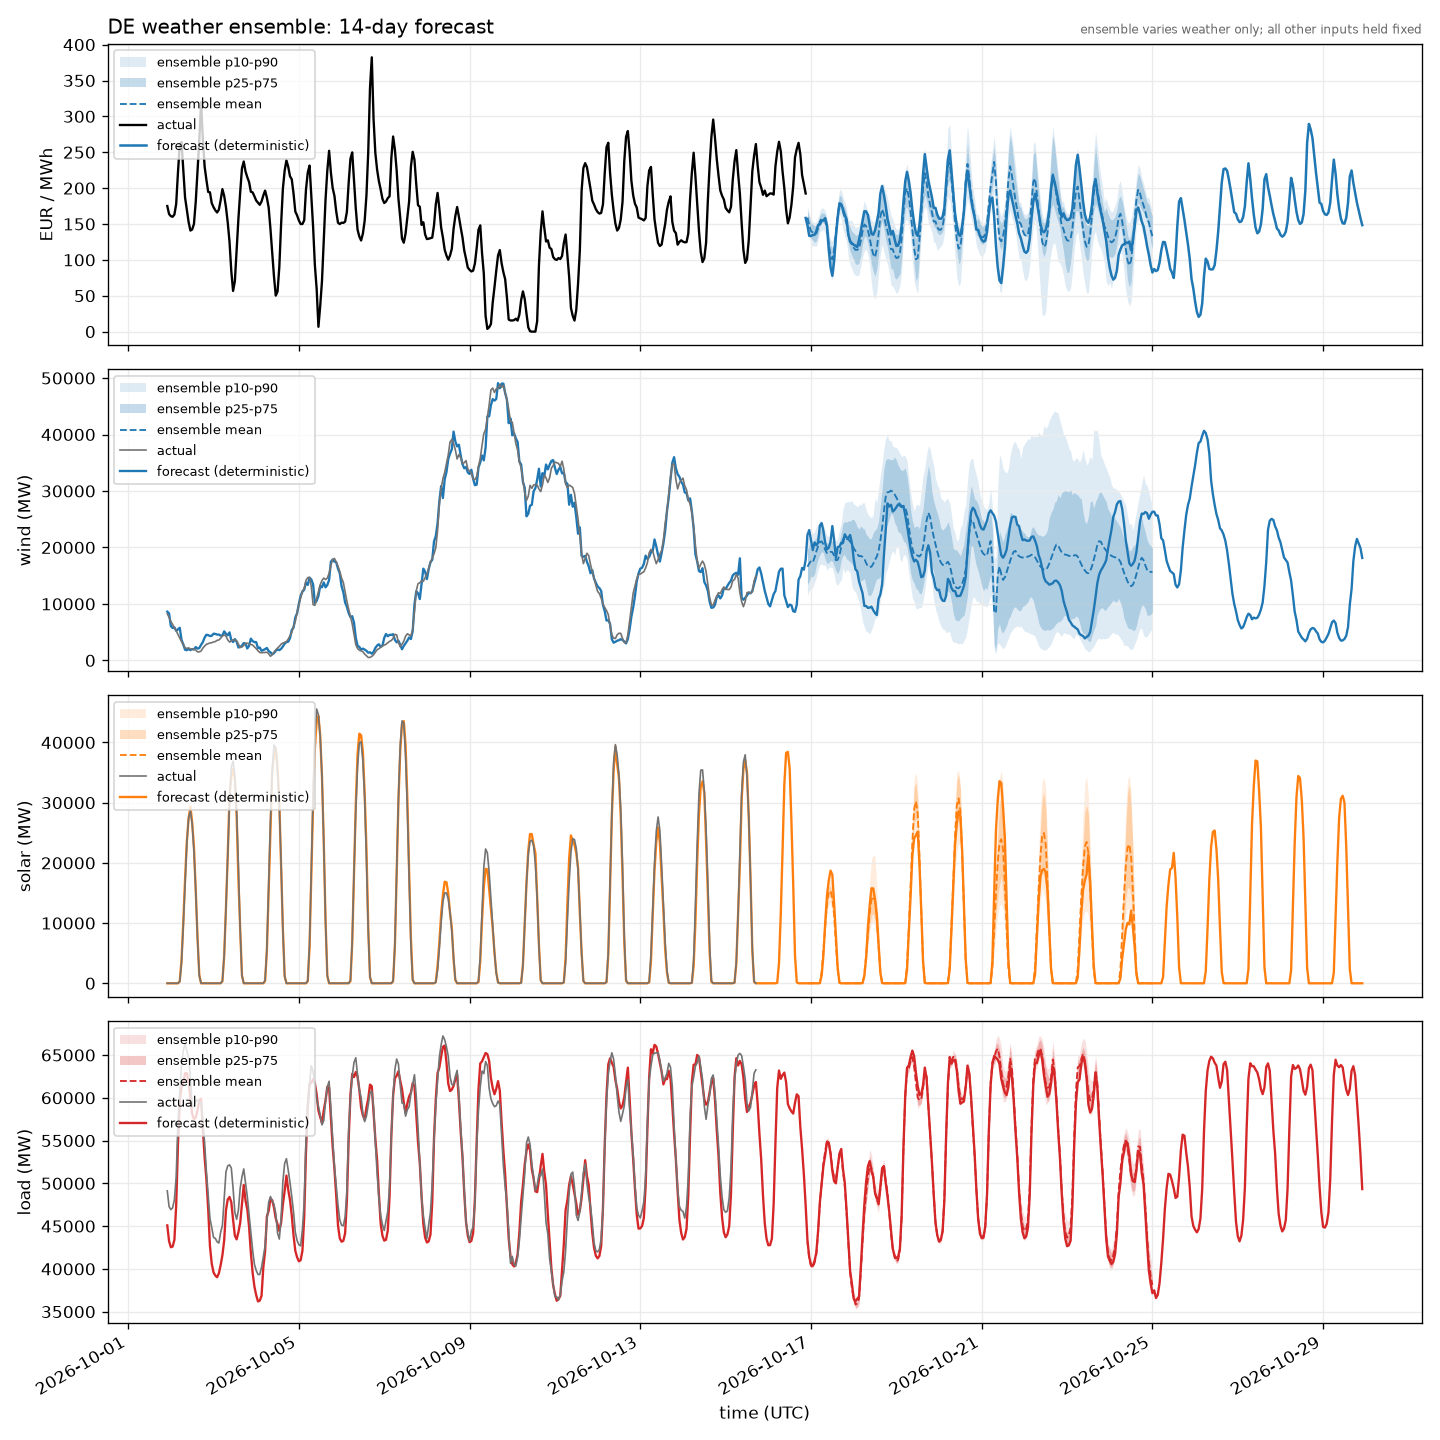
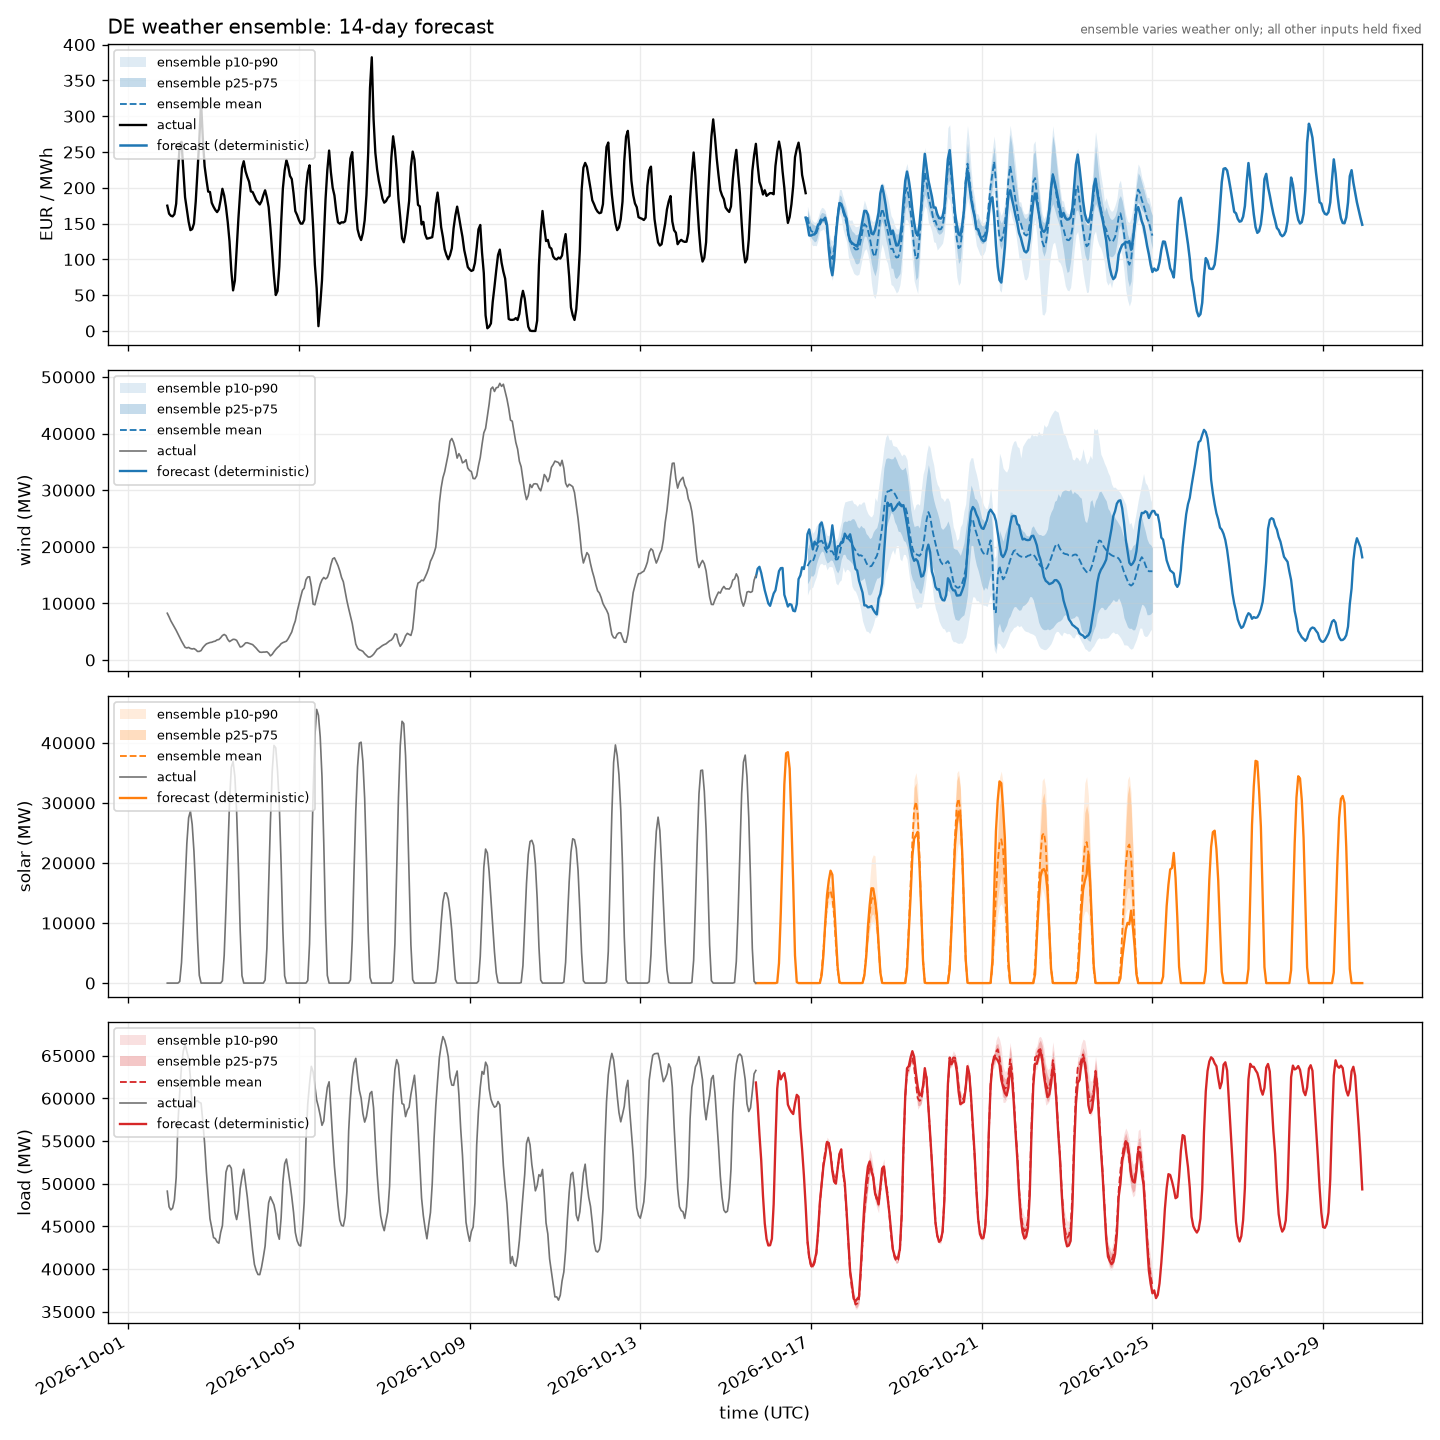
fix(plots): show fundamental forecasts after measured history

diff --git a/tests/test_plots.py b/tests/test_plots.py
@@ -1,0 +1,51 @@
+"""Forecast charts must hand measured history over to each series' own forward predictions."""
+
+from unittest.mock import Mock
+
+import numpy as np
+import pandas as pd
+import pytest
+
+from eex_forecast.plots import _FUNDAMENTAL_PANELS, _draw_fundamental
+
+
+@pytest.mark.parametrize("panel", _FUNDAMENTAL_PANELS)
+def test_fundamental_forecast_starts_at_its_own_last_measurement(
+    panel: tuple[str, str, str, str, str],
+) -> None:
+    frame = pd.DataFrame(
+        {
+            "wind_actual_mw": [1, 2, np.nan, np.nan, np.nan, np.nan],
+            "solar_actual_mw": [0, 1, np.nan, 0, np.nan, np.nan],
+            "load_actual_mw": [1, 2, 3, np.nan, np.nan, np.nan],
+            # The price boundary must not decide the fundamentals' boundaries.
+            "price_actual_eur_mwh": [1, 2, 3, 4, 5, 6],
+            panel[2]: [10, 11, 12, 13, 14, 15],
+        },
+        index=range(10, 16),
+    )
+    before = frame.copy(deep=True)
+    times = pd.Series(pd.date_range("2026-10-01", periods=6, freq="h", tz="UTC"), index=frame.index)
+    ax = Mock()
+
+    _draw_fundamental(ax, frame, times, panel, label="forecast")
+
+    actual, forecast = (call.args[1] for call in ax.plot.call_args_list)
+    pd.testing.assert_series_equal(actual, frame[panel[1]])
+    last = times[frame[panel[1]].notna()].max()
+    pd.testing.assert_series_equal(forecast, frame[panel[2]].where(times >= last))
+    pd.testing.assert_frame_equal(frame, before)
+
+
+@pytest.mark.parametrize("missing_column", [False, True])
+def test_fundamental_without_measurements_keeps_its_forecast(missing_column: bool) -> None:
+    panel = _FUNDAMENTAL_PANELS[0]
+    frame = pd.DataFrame({panel[2]: [10.0, 11.0, 12.0]})
+    if not missing_column:
+        frame[panel[1]] = np.nan
+    times = pd.Series(pd.date_range("2026-10-01", periods=3, freq="h", tz="UTC"))
+    ax = Mock()
+
+    _draw_fundamental(ax, frame, times, panel, label="forecast")
+
+    pd.testing.assert_series_equal(ax.plot.call_args_list[1].args[1], frame[panel[2]])

diff --git a/src/eex_forecast/plots.py b/src/eex_forecast/plots.py
@@ -185,11 +185,21 @@ def _draw_fundamental(
     *,
     label: str,
 ) -> None:
-    """Draw one fundamental's actual (grey, on top) and its sub-model forecast on ``ax``."""
+    """Hand each fundamental's actual series over to its forecast at its last measured hour.
+
+    Fundamental publication times differ from settled prices and from each other, so each panel uses
+    its own actual availability. Retain the boundary point as in the price plot; if no measurements
+    exist, leave the forecast visible throughout the supplied window.
+    """
     _, actual_col, forecast_col, ylabel, color = panel
+    actual = numeric_column(frame, actual_col)
+    forecast = numeric_column(frame, forecast_col)
+    measured = actual.notna()
+    if measured.any():
+        forecast = _forward_only(forecast, times, times[measured].max())
     ax.plot(
         times,
-        numeric_column(frame, actual_col),
+        actual,
         color="0.45",
         linewidth=1.0,
         label="actual",
@@ -197,7 +207,7 @@ def _draw_fundamental(
     )
     ax.plot(
         times,
-        numeric_column(frame, forecast_col),
+        forecast,
         color=color,
         linewidth=1.4,
         label=label,
@@ -208,7 +218,7 @@ def _draw_fundamental(
 
 
 def plot_fundamentals(frame: pd.DataFrame, times: pd.Series, path: object) -> object:
-    """Plot the wind / solar / load sub-model forecasts against recent actuals, one panel each.
+    """Plot recent wind / solar / load actuals followed by their forecasts, one panel each.
 
     Deterministic only, like :func:`plot_forecast`; the per-fundamental ensemble spread lives in
     :func:`plot_ensemble`.

diff --git a/docs/data-pipeline.md b/docs/data-pipeline.md
@@ -273,7 +273,7 @@ load. Actual columns are populated only where measurements exist.
 `--plot` adds:
 
 - `forecast.png`: settled price followed by genuinely out-of-sample price;
-- `fundamentals.png`: wind, solar, and load actual/forecast series;
+- `fundamentals.png`: wind, solar, and load actuals followed by forecasts;
 - `drivers.png`: weather and cross-border driver panels;
 - `features.png`: every raw column a model reads, exactly as stored (each weather point by role,
   neighbour wind, nuclear, and per-border NTC), with no aggregation or radiation alignment. Fetched

diff --git a/README.md b/README.md
@@ -155,7 +155,7 @@ eex run --train --plot --ensemble
 `--plot` adds:
 
 - `forecast.png` — settled price followed by the genuinely out-of-sample price forecast;
-- `fundamentals.png` — wind, solar, and load actuals/forecasts;
+- `fundamentals.png` — wind, solar, and load actuals followed by forecasts;
 - `drivers.png` — weather, neighbour wind, nuclear, and transfer-capacity panels;
 - `features.png` — every raw column the models read, as stored and grouped by kind: a quick visual
   sanity check.
